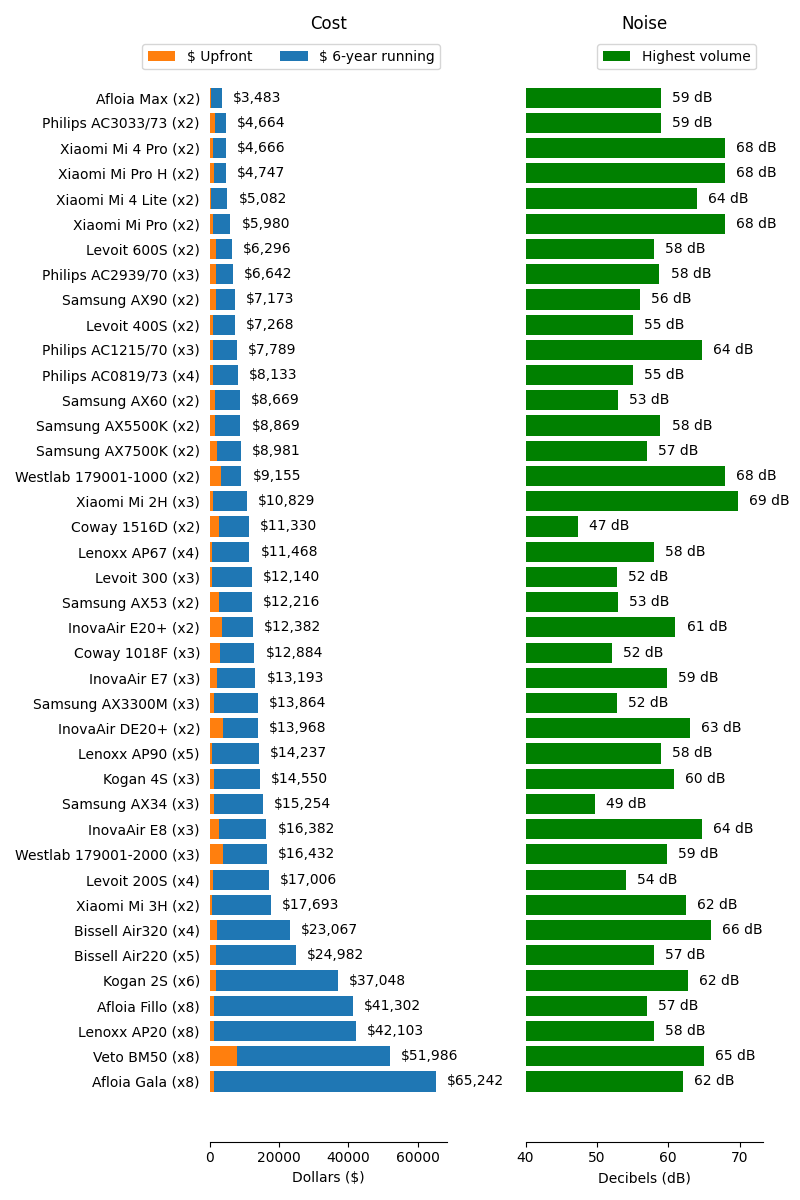
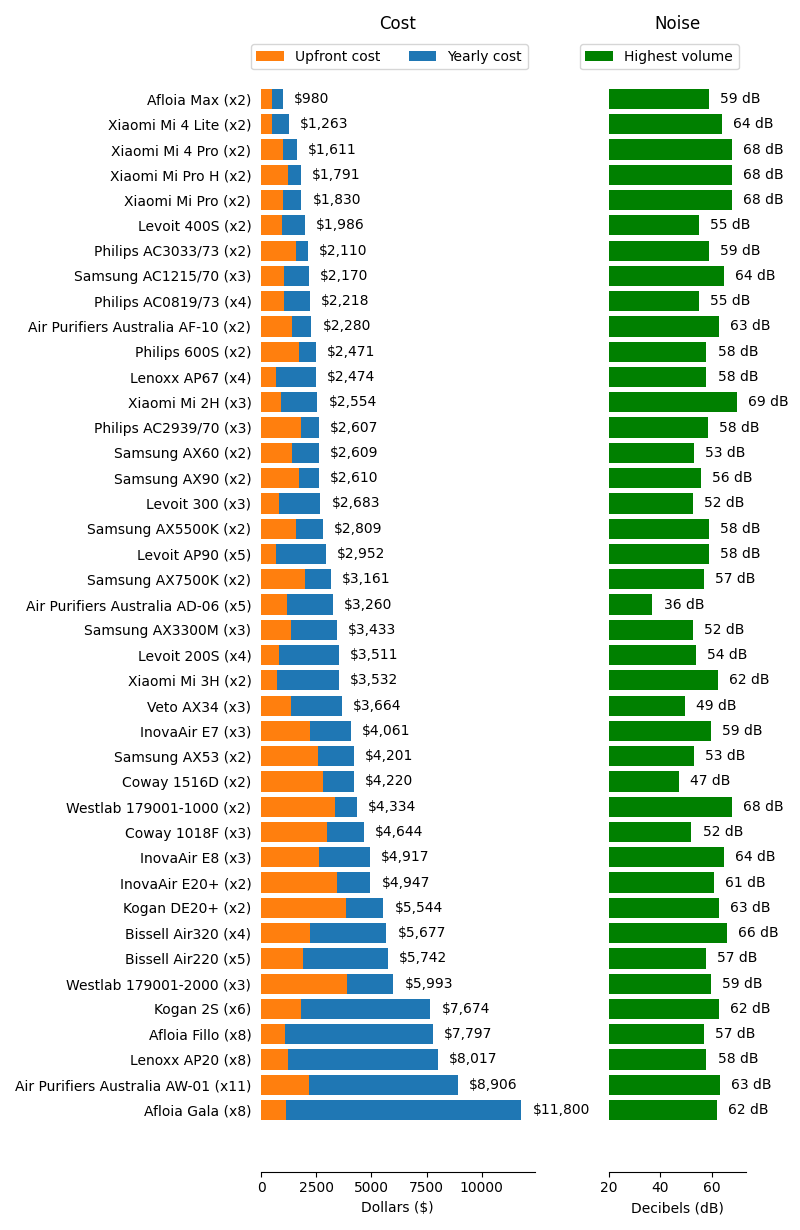
Quick push

diff --git a/products/costanalysis_chartselector.html b/products/costanalysis_chartselector.html
@@ -1,0 +1,42 @@
+
+<script>
+    function update (form){
+        for (vol = 0; vol < 3; vol++) {
+            if (form.volume[vol].checked)
+                break;
+            }
+        for (qual = 0; qual < 3; qual++) {
+            if (form.quality[qual].checked)
+                break;
+            }
+        image = document.getElementById('chosenimage')   
+        image.src = "https://rsbyrne.github.io/aircleaning/products/" + vol + "_" + qual + ".png"
+        image.alt = "Volume chosen: " + vol + " , quality chosen: " + qual
+        }
+</script>
+<div align="center">
+    <form id='userinput' style="background-color:#deeffc">
+        <fieldset id="volumeoptions">
+            <p>How big is the room you want to put your air purifier in?</p>
+            <input type="radio" id='smallop' value="small" name="volume" onClick="update(this.form)">
+            <label for="smallop">Small (37m3)</label>
+            <input type="radio" id='mediumop' value="medium" name="volume" onClick="update(this.form)">
+            <label for="mediumop">Medium (78m3)</label>
+            <input type="radio" id='largeop' value="large" name="volume" onClick="update(this.form)">
+            <label for="largeop">Large (155m3)</label>
+        </fieldset>
+        <fieldset id="qualityoptions">
+            <p>How high do you want the air quality to be in this room?</p>
+            <input type="radio" id='poorop' value="poor" name="quality" onClick="update(this.form)">
+            <label for="poorop">Poor (4ACH)</label>
+            <input type="radio" id='goodop' value="good" name="quality" onClick="update(this.form)">
+            <label for="goodop">Good (6ACH)</label>
+            <input type="radio" id='excellentop' value="excellent" name="quality" onClick="update(this.form)">
+            <label for="excellentop">Excellent (9ACH)</label>
+        </fieldset>
+    </form>
+    <img id = 'chosenimage' src='https://rsbyrne.github.io/aircleaning/products/placeholder.png' alt="Cost analysis">
+</div>
+<script>
+    update(document.getElementById('userinput'))
+</script>

diff --git a/aircleaning/produce.py b/aircleaning/produce.py
@@ -16,12 +16,12 @@ repodir = os.path.dirname(os.path.dirname(__file__))
 productsdir = os.path.join(repodir, 'products')
 
 
-def cost_analysis(data, volume, quality, path=productsdir, name='default'):
+def cost_analysis(volume, quality, path=productsdir, name='default'):
 
-    data = analyse.cost_analysis(data, volume, quality)
+    data = analyse.cost_analysis(None, volume, quality)
     data = data.sort_values('nominal')
     # data = data.loc[data['nunits'] < 6]
-    data = data.drop('Dyson', level='Manufacturer')
+    data = data.drop('Dyson', level='manufacturer')
     data['fullname'] = tuple(map(
         ''.join, zip(
             map(' '.join, data.index),
@@ -31,7 +31,7 @@ def cost_analysis(data, volume, quality, path=productsdir, name='default'):
     dollarlabels = tuple(data['nominal'].astype(int).apply('${:,}'.format))
 
     plt.rcdefaults()
-    fig, (ax1, ax2) = plt.subplots(ncols=2)
+    fig, (ax1, ax2) = plt.subplots(ncols=2, gridspec_kw={'width_ratios': [2, 1]})
     fig.set_size_inches(8, 0.3 * len(data))
     fig.set_tight_layout(True)
 
@@ -52,7 +52,7 @@ def cost_analysis(data, volume, quality, path=productsdir, name='default'):
     ax1.spines['left'].set_visible(False)
     ax1.tick_params(axis='y', which='both', left=False)
     ax1.legend(
-        [innerbars, outerbars], ['$ Upfront', '$ 6-year running'],
+        [innerbars, outerbars], ['Upfront cost', 'Yearly cost'],
         ncol=2,
         )
 
@@ -61,7 +61,7 @@ def cost_analysis(data, volume, quality, path=productsdir, name='default'):
     ax2.invert_yaxis()  # labels read top-to-bottom
     ax2.set_xlabel('Decibels (dB)')
     ax2.set_title('Noise')
-    ax2.set_xlim(40)
+    ax2.set_xlim(20)
     ax2.bar_label(bars, label_type='edge', padding=8, fmt='%d dB')
     ax2.spines['top'].set_visible(False)
     ax2.spines['right'].set_visible(False)
@@ -78,13 +78,79 @@ def cost_analysis(data, volume, quality, path=productsdir, name='default'):
     plt.savefig(os.path.join(path, name) + '.png')
 
 
-def multi_cost_analysis(data):
+def make_cost_analysis_form_channel(overname, data, /):
+    levels = data['levels'].astype(int)
+    unit = data.attrs['units']['levels']
+    return '\n'.join('\n'.join((
+        f'''            <input type="radio" id='{name}op' value="{name}" name="{overname}" onClick="update(this.form)">''',
+        f'''            <label for="{name}op">{name.capitalize()} ({levels[name]}{unit})</label>''',
+        )) for name in data.index)
 
-    for voli, vol in enumerate(load.VOLUME):
-        for quali, qual in enumerate(load.QUALITY):
-            cost_analysis(data, vol, qual, name=f"{voli}_{quali}")
+def cost_analysis_chart_selector(
+        vols, quals,
+        path=productsdir, name='costanalysis_chartselector',
+        ):
 
-#     for n
+    strn = '\n' + '\n'.join((
+        '''<script>''',
+        '''    function update (form){''',
+        '''        for (vol = 0; vol < 3; vol++) {''',
+        '''            if (form.volume[vol].checked)''',
+        '''                break;''',
+        '''            }''',
+        '''        for (qual = 0; qual < 3; qual++) {''',
+        '''            if (form.quality[qual].checked)''',
+        '''                break;''',
+        '''            }''',
+        '''        image = document.getElementById('chosenimage')   ''',
+        '''        image.src = "https://rsbyrne.github.io/aircleaning/products/" + vol + "_" + qual + ".png"''',
+        '''        image.alt = "Volume chosen: " + vol + " , quality chosen: " + qual''',
+        '''        }''',
+        '''</script>''',
+        '''<div align="center">''',
+        '''    <form id='userinput' style="background-color:#deeffc">''',
+        ))
+
+    strn += '\n' + '\n'.join((
+        '''        <fieldset id="volumeoptions">''',
+        '''            <p>How big is the room you want to put your air purifier in?</p>''',
+        ))
+    strn += '\n' + make_cost_analysis_form_channel('volume', vols)
+    strn += '\n' + \
+        '''        </fieldset>'''
+
+    strn += '\n' + '\n'.join((
+        '''        <fieldset id="qualityoptions">''',
+        '''            <p>How high do you want the air quality to be in this room?</p>''',
+        ))
+    strn += '\n' + make_cost_analysis_form_channel('quality', quals)
+    strn += '\n' + \
+        '''        </fieldset>'''
+
+    strn += '\n' + '\n'.join((
+        '''    </form>''',
+        '''    <img id = 'chosenimage' src='https://rsbyrne.github.io/aircleaning/products/placeholder.png' alt="Cost analysis">''',
+        '''</div>''',
+        '''<script>''',
+        '''    update(document.getElementById('userinput'))''',
+        '''</script>''',
+        ))
+
+    strn += '\n'
+
+    with open(os.path.join(productsdir, name) + '.html', mode='w') as file:
+        file.write(strn)
+
+
+def multi_cost_analysis(path=productsdir):
+
+    vols, quals = load.get_volume_data(), load.get_quality_data()
+
+    for voli, vol in enumerate(vols['levels']):
+        for quali, qual in enumerate(quals['levels']):
+            cost_analysis(vol, qual, path=path, name=f"{voli}_{quali}")
+
+    cost_analysis_chart_selector(vols, quals, path)
 
 
 ###############################################################################

diff --git a/aircleaning/load.py b/aircleaning/load.py
@@ -3,24 +3,46 @@
 ###############################################################################
 
 
+from functools import cache
+
 import pandas as pd
 
 
 def process_colname(colname, /):
     names = colname.split(' ')
-    return ''.join(name.lower() for name in names if not name.startswith('('))
+    if len(names) < 2:
+        return names[0].lower(), None
+    if names[-1].startswith('('):
+        return (
+            ''.join(map(str.lower, names[:-1])),
+            names[-1].strip('()'),
+            )
+    return ''.join(map(str.lower, names)), None
 
 
-def pull_data():
+def pull_data(sheetname, sheetid='1-txu_2XXChdZ8USBgDq7sndrsi_UjNdlkGmLzk7jxi4'):
 
-    sheetid = '1-txu_2XXChdZ8USBgDq7sndrsi_UjNdlkGmLzk7jxi4'
-    sheetname = 'data'
-    sheeturl = f"https://docs.google.com/spreadsheets/d/{sheetid}/gviz/tq?tqx=out:csv&sheet={sheetname}"
+    data = pd.read_csv(
+        f"https://docs.google.com/spreadsheets/d/{sheetid}"
+        f"/gviz/tq?tqx=out:csv&sheet={sheetname}"
+        )
+    units = {}
+    columns = []
+    for col in data.columns:
+        name, unit = process_colname(col)
+        units[name] = unit
+        columns.append(name)
+    data.columns = columns
+    data.attrs['units'] = units
+    return data
 
-    data = pd.read_csv(sheeturl)
 
-    data = data.set_index(['Manufacturer', 'Model'])
-    data.columns = list(map(process_colname, data.columns))
+@cache
+def pull_main_data():
+
+    data = pull_data('main')
+
+    data = data.set_index(['manufacturer', 'model'])
 
     data['cost'] = data['cost'].replace("[$,]", "", regex=True).astype(float)
     data['filtercost'] = data['filtercost'].replace("[$,]", "", regex=True).astype(float)
@@ -31,19 +53,41 @@ def pull_data():
     return data
 
 
-VOLUME = dict(
-    small=37,
-    medium=78,
-    large=155,
-    )
+def get_main_data():
+    return pull_main_data().copy()
 
-QUALITY = dict(
-    poor=3,
-    good=6,
-    excellent=9,
-    )
 
-NOMINALPERIOD = 6
+@cache
+def pull_volume_data():
+
+    data = pull_data('volume')
+    data['names'] = data['names'].apply(str.lower)
+    data['levels'] = data['levels'].astype(float)
+    data = data.set_index('names')
+
+    return data
+
+
+def get_volume_data():
+    return pull_volume_data().copy()
+
+
+@cache
+def pull_quality_data():
+
+    data = pull_data('quality')
+    data['names'] = data['names'].apply(str.lower)
+    data['levels'] = data['levels'].astype(float)
+    data = data.set_index('names')
+
+    return data
+
+
+def get_quality_data():
+    return pull_quality_data().copy()
+
+
+NOMINALPERIOD = 1
 NOMINALPOWERCOST = 0.2  # $/kWh
 
 

diff --git a/aircleaning/analyse.py b/aircleaning/analyse.py
@@ -11,12 +11,15 @@ import numpy as np
 from . import load
 
 
-def cost_analysis(data, /, volume='medium', quality='good'):
+def cost_analysis(data=None, /, volume='medium', quality='good'):
+
+    if data is None:
+        data = load.get_main_data()
 
     if isinstance(volume, str):
-        volume = load.VOLUME[volume]
+        volume = load.get_volume_data()['levels'].loc[volume]
     if isinstance(quality, str):
-        quality = load.QUALITY[quality]
+        quality = load.get_quality_data()['levels'].loc[quality]
 
     data = data.loc[~data['ionising'] & ~data['uv']]
     data = data.drop(
@@ -41,6 +44,7 @@ def cost_analysis(data, /, volume='medium', quality='good'):
     data['running'] = filtercost + powercost
     data['nominal'] = data['upfront'] + data['running'] * load.NOMINALPERIOD
     data['nunits'] = nunits
+
     return data
 
 

diff --git a/update.py b/update.py
@@ -16,9 +16,7 @@ repodir = os.path.dirname(__file__)
 productsdir = os.path.join(repodir, 'products')
 
 
-data = load.pull_data()
-
-produce.multi_cost_analysis(data)
+produce.multi_cost_analysis()
 
 
 ###############################################################################

diff --git a/index.md b/index.md
@@ -4,9 +4,9 @@ title: AirCleaner (not for public consumption)
 
 # Chart selector
 
-<iframe id="dashboard_mel"
+<iframe id="costanalysis_chartselector"
     title="Chart Selector"
     width="864"
     height="1350"
-    src="https://rsbyrne.github.io/aircleaning/products/chartselector.html">
+    src="https://rsbyrne.github.io/aircleaning/products/costanalysis_chartselector.html">
 </iframe>
